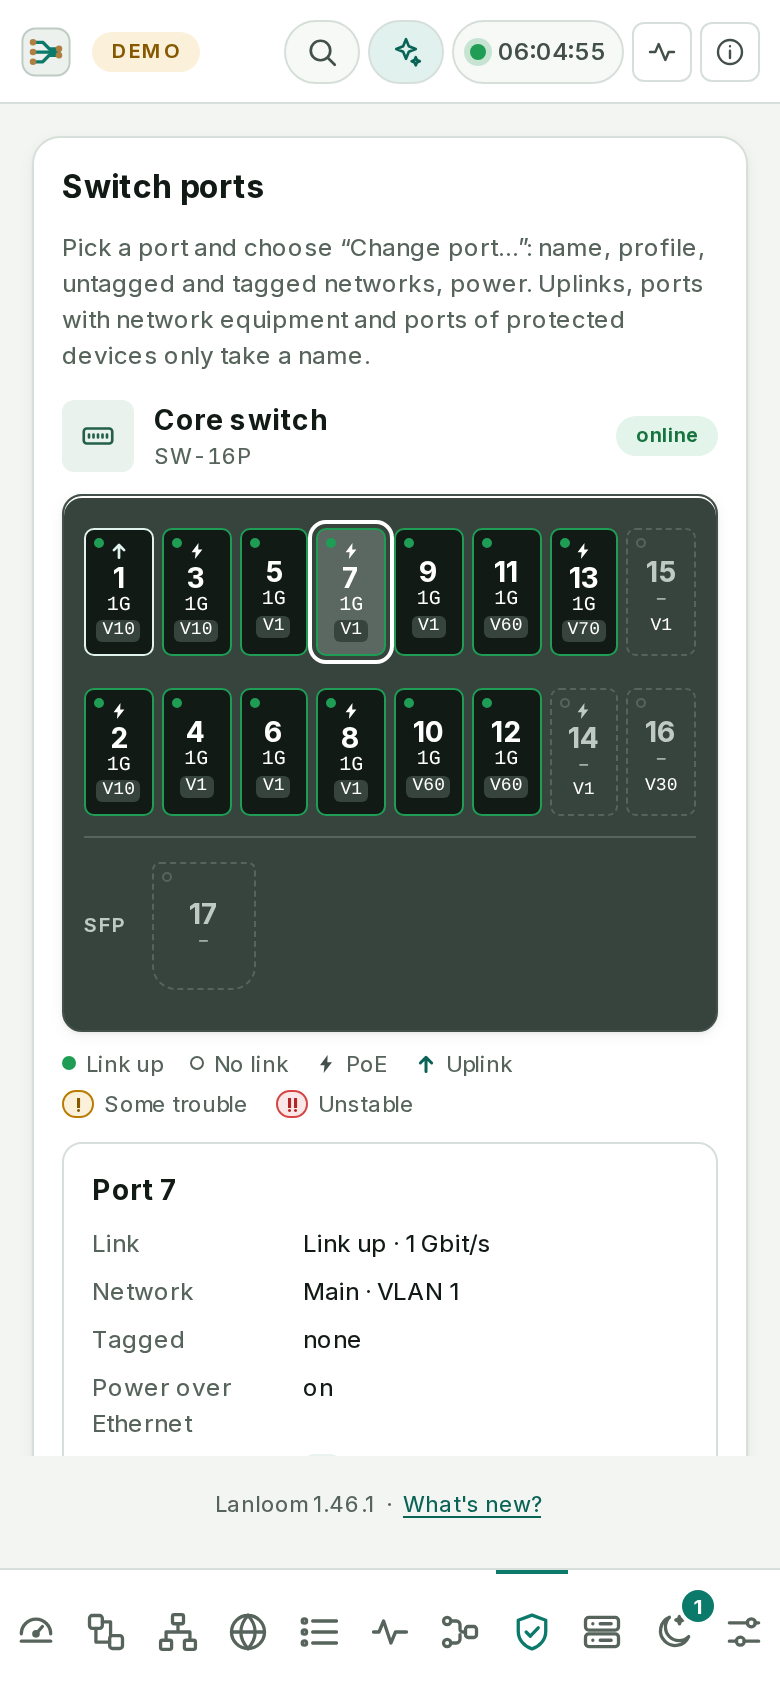
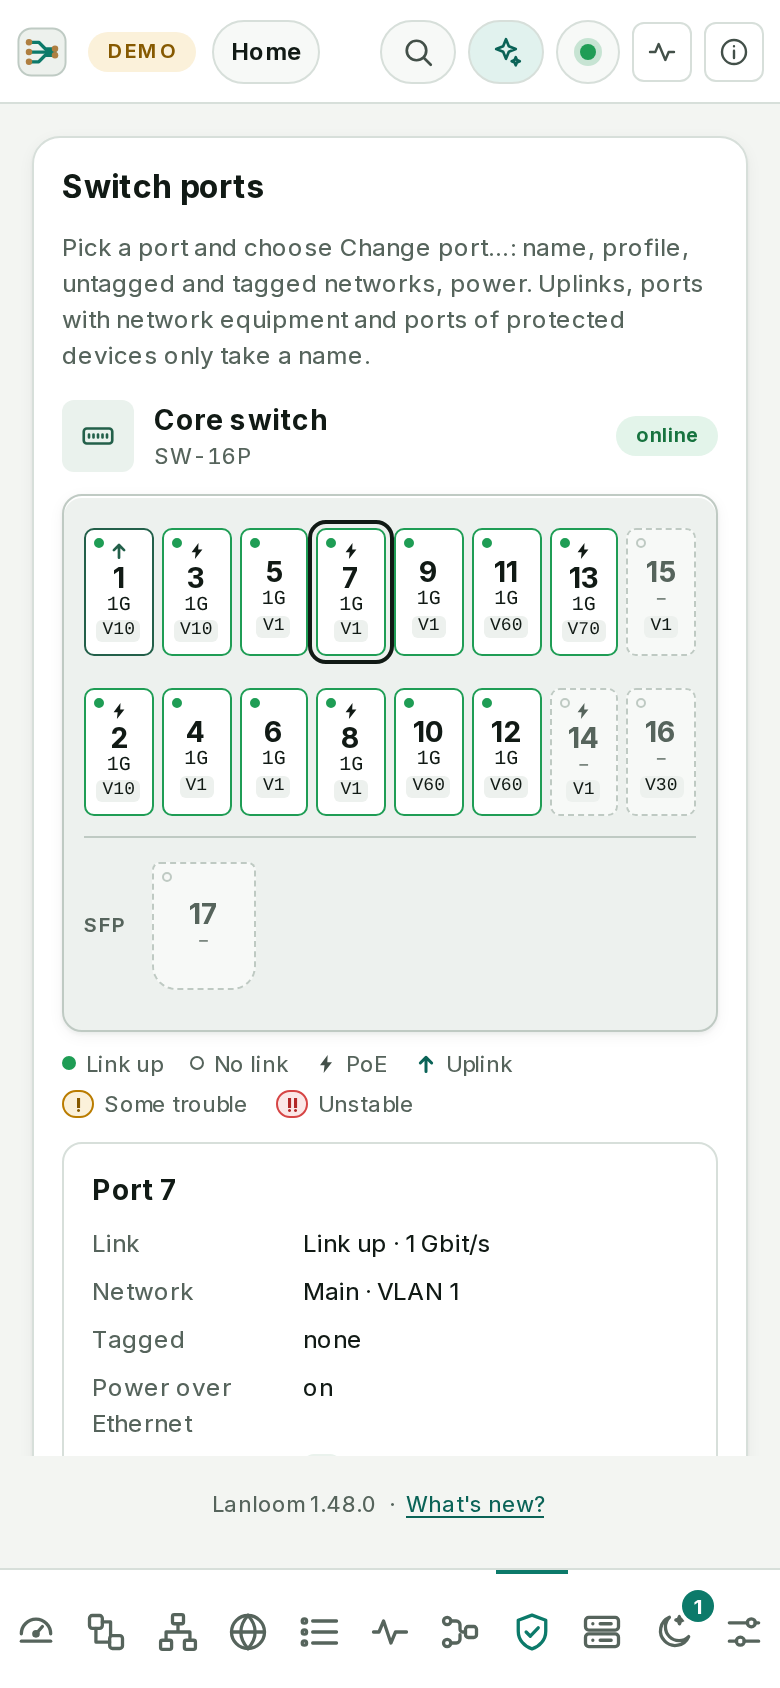
Release train fix: firewall view reads the job list before the state, front panel follows the light theme and redraws outside the resize observer, report section titles wrap on phones
The 1.46.0 gate was red in step 1a (a port forward missing after done: the view read the
state, the run ended, then the view read done) and in step 6 (dark front plate on light
pages, report title overflow on phones, resize loop page error).

diff --git a/lanloom/web/css/portfront.css b/lanloom/web/css/portfront.css
@@ -1,19 +1,7 @@
-/* Lanloom — front view of a switch, router or access point (js/portfront.js). Colours only from tokens.css; the plate is a
-   dark faceplate in the light theme and a raised dark panel in the dark theme. */
+/* Lanloom — front view of a switch, router or access point (js/portfront.js). Colours only from tokens.css; the plate
+   follows the mode like every other surface (a light plate in the light theme, a raised dark panel in the dark theme:
+   the palette check allows no dark island on a light page). The tokens carry the mode, so one mapping serves both. */
 .pf {
-  --pf-plate: var(--ll-pcb-silk);
-  --pf-plate-line: var(--ll-text-2);
-  --pf-pad: var(--ll-text);
-  --pf-pad-down: var(--ll-pcb-silk);
-  --pf-pad-sel: var(--ll-pcb-silk-2);
-  --pf-line: var(--ll-text-3);
-  --pf-ink: var(--ll-pcb-tile);
-  --pf-ink-dim: var(--ll-border-strong);
-  --pf-ok: var(--ll-ok);
-  --pf-accent: var(--ll-accent-soft);
-  display: flex; flex-direction: column; gap: 10px; min-width: 0;
-}
-[data-theme="dark"] .pf {
   --pf-plate: var(--ll-surface-3);
   --pf-plate-line: var(--ll-border-strong);
   --pf-pad: var(--ll-pcb-tile);
@@ -22,20 +10,9 @@
   --pf-line: var(--ll-border-strong);
   --pf-ink: var(--ll-text);
   --pf-ink-dim: var(--ll-text-3);
+  --pf-ok: var(--ll-ok);
   --pf-accent: var(--ll-pcb-icon);
-}
-@media (prefers-color-scheme: dark) {
-  [data-theme="auto"] .pf {
-    --pf-plate: var(--ll-surface-3);
-    --pf-plate-line: var(--ll-border-strong);
-    --pf-pad: var(--ll-pcb-tile);
-    --pf-pad-down: var(--ll-surface-2);
-    --pf-pad-sel: var(--ll-surface);
-    --pf-line: var(--ll-border-strong);
-    --pf-ink: var(--ll-text);
-    --pf-ink-dim: var(--ll-text-3);
-    --pf-accent: var(--ll-pcb-icon);
-  }
+  display: flex; flex-direction: column; gap: 10px; min-width: 0;
 }
 
 .pf-head { display: flex; align-items: center; gap: 10px; min-width: 0; flex-wrap: wrap; }

diff --git a/lanloom/web/js/portfront.js b/lanloom/web/js/portfront.js
@@ -244,13 +244,20 @@
       drawPlate(0);
       root.append(plateBox, info);
       if (typeof ResizeObserver !== 'undefined') {
-        let last = 0;
+        let last = 0, frame = 0;
+        // the plate is drawn anew in the next frame, not inside the observer: redrawing there changes the size of what is
+        // observed and the browser reports "ResizeObserver loop completed with undelivered notifications" as a page error
         const ro = new ResizeObserver(() => {
           if (!root.isConnected) { ro.disconnect(); return; }
-          const w = Math.round(root.clientWidth);
-          if (!w || w === last) return;
-          last = w;
-          if (colsFor(w, ports.some(p => p.sfp)) !== cols || sfpBeside(w) === stacked) drawPlate(w);
+          if (frame) return;
+          frame = requestAnimationFrame(() => {
+            frame = 0;
+            if (!root.isConnected) { ro.disconnect(); return; }
+            const w = Math.round(root.clientWidth);
+            if (!w || w === last) return;
+            last = w;
+            if (colsFor(w, ports.some(p => p.sfp)) !== cols || sfpBeside(w) === stacked) drawPlate(w);
+          });
         });
         ro.observe(root);
       }

diff --git a/lanloom/web/css/reports.css b/lanloom/web/css/reports.css
@@ -44,7 +44,8 @@
   background: var(--ll-surface-2); color: var(--ll-text-3); }
 .rp-sec[data-level="warn"] .rp-sec__icon { background: var(--ll-warn-soft); color: var(--ll-warn-text); }
 .rp-sec[data-level="danger"] .rp-sec__icon { background: var(--ll-danger-soft); color: var(--ll-danger-text); }
-.rp-sec__title { font-size: var(--ll-fs-md); white-space: nowrap; }
+/* a long source name ("Network controller · Sample wireless controller") wraps instead of running out of a phone screen */
+.rp-sec__title { font-size: var(--ll-fs-md); min-width: 0; overflow-wrap: anywhere; }
 .rp-sec__name { font-weight: var(--ll-fw-medium); color: var(--ll-text-3); }
 .rp-sec__sum { color: var(--ll-text-2); font-size: var(--ll-fs-sm); min-width: 0; overflow-wrap: anywhere; }
 
@@ -119,7 +120,7 @@
   .rp-date { font-size: var(--ll-fs-lg); }
   .rp-sec__head { grid-template-columns: auto minmax(0, 1fr); }
   .rp-sec__name { font-weight: var(--ll-fw-medium); color: var(--ll-text-3); }
-.rp-sec__sum { grid-column: 2; }
+  .rp-sec__sum { grid-column: 2; }
   .rp-items { padding-left: 0; }
   .rp-more { padding-left: 0; }
   .rp-headline { padding: 12px; }

diff --git a/tests/test_netconf_edits.py b/tests/test_netconf_edits.py
@@ -325,6 +325,26 @@ def test_port_forward_needs_its_confirmation_through_the_api(c):
     assert any(f["name"] == "Web" and f["own"] for f in v["state"]["port_forwards"])
 
 
+def test_the_view_never_pairs_a_finished_job_with_the_state_before_it(c, monkeypatch):
+    # a run that ends while the tab's data is put together: read state first and jobs second, the answer said "done"
+    # next to the state before the run (seen under load: the new port forward missing after "done")
+    ed = c.ll.firewall
+    ed.store.set_setting("fw_jobs", [{"plan": "p_race", "user": "admin", "t": 0, "status": "running", "stage": "watch",
+                                      "summary": [], "undo_of": None, "inverse": None, "undo_until": None, "target": "simulation"}])
+    read_state = ed.state
+
+    def state_then_the_run_ends():
+        st = read_state()
+        ed.on_progress({"plan": "p_race", "stage": "done", "status": "done", "t": 0, "reason": "fw.res.done"})
+        return st
+    monkeypatch.setattr(ed, "state", state_then_the_run_ends)
+    v = c.get("/api/firewall?source=editor").json()
+    assert v["running"] and v["running"]["plan"] == "p_race"      # still running in this answer: the next poll has both
+    monkeypatch.setattr(ed, "state", read_state)
+    v = c.get("/api/firewall?source=editor").json()
+    assert not v["running"] and v["history"][0]["status"] == "done"
+
+
 def test_release_of_a_fixed_address_warns_about_what_uses_it(c):
     c.put("/api/firewall/draft", json={"ops": [{"kind": "dhcp.release", "object": "r_d19"}]}, headers=HDR)
     pv = c.post("/api/firewall/preview", json={}, headers=HDR).json()

diff --git a/lanloom/firewall/editor.py b/lanloom/firewall/editor.py
@@ -191,10 +191,14 @@ class Editor:
                     "capabilities": capmod.public(dict(entry["caps"], write={})),     # a live source is shown, never written
                     "live": {"name": entry["name"], "family": entry.get("family"), "age_s": entry.get("age_s"),
                              "version": (st.get("controller") or {}).get("version"), "apis": (st.get("controller") or {}).get("apis")}}
+        # the job list is read before the state: a run reports "done" only after its last write, so a reader that sees a
+        # finished job also sees what it wrote (read the other way round, a run ending in between gave the old state
+        # next to "done")
+        running, history = self.running(), self.history()
         st = self.state()
         out = {"mode": self.mode, "source": "editor", "sources": sources, "state": None, "targets": {}, "draft": self.draft(user),
                "quiet": self.is_quiet(), "quiet_hours": self.quiet_hours, "executor": self.executor_status(),
-               "running": self.running(), "history": self.history(), "requester": None, "max_objects": model.MAX_OBJECTS,
+               "running": running, "history": history, "requester": None, "max_objects": model.MAX_OBJECTS,
                "capabilities": self.public_capabilities()}
         if st is not None:
             out["state"] = st

diff --git a/tests/test_portfront_ui.py b/tests/test_portfront_ui.py
@@ -76,6 +76,11 @@ def test_accessible_and_themed():
     local = set(re.findall(r"(--pf-[\w-]+)\s*:", css))
     used = set(re.findall(r"var\((--[\w-]*\w)", css))
     assert used <= tokens | local | {"--pf-cols"}, used - tokens - local      # --pf-cols is set per band by the script
-    assert '[data-theme="dark"] .pf' in css and '[data-theme="auto"] .pf' in css
+    # the plate follows the mode like every other surface (no dark island on a light page, see the palette check of the
+    # gate): surface and border tokens that carry the theme, never a token that stays dark in the light theme
+    mapping = dict(re.findall(r"(--pf-[\w-]+):\s*var\((--[\w-]+)\)", css))
+    assert mapping["--pf-plate"].startswith("--ll-surface") and mapping["--pf-plate-line"] == "--ll-border-strong"
+    assert not any("pcb-silk" in v for v in mapping.values())
+    assert len(re.findall(r"--pf-plate\s*:", css)) == 1                   # one mapping for every mode
     # the health mark is a symbol, not only a colour
     assert ".pf-health" in css and "levelMark(lv)" in pf

diff --git a/CHANGELOG.md b/CHANGELOG.md
@@ -55,6 +55,11 @@ All notable changes to this project are documented here. The format follows [Kee
 ### Fixed
 - A device that a switch controller still lists but reports as disconnected (or whose heartbeat is missing) no longer counts as a sign of life, so a dead access point shows as down instead of online.
 
+### Fixed
+- Firewall editor: an answer of the tab could show a finished change next to the state from before it, when the change ended while the page was asking (seen under load as a new port forward or guest setting missing after *done*). The job list is now read before the state, so *done* always comes with what the change wrote.
+- The front panel of a switch, router or access point follows the light theme (a light plate instead of a dark one on a light page; the dark theme is unchanged), and redrawing it when the page is resized no longer makes the browser report a resize loop. The light screenshots of the front panel and the switch port editor were taken again.
+- Long section titles of the nightly report (a source name such as a wireless controller's) wrap on a phone instead of running out of the screen.
+
 ## [1.47.0] – 2026-11-19
 
 1.44.0, 1.44.1, 1.45.0, 1.46.0 and 1.46.1 below were not released on their own; they are part of this release.
